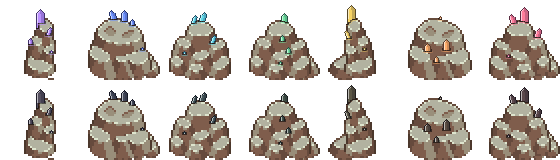
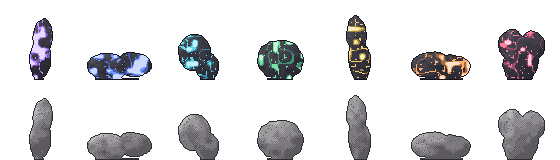
Stones: yooperlite-style lake stones, with a pack-boulder comparison
Seven smooth, weathered lake stones of different shapes: plain grey when
out, dark with glowing patches, veins and flecks of their colour when
lit. A comparison sheet maps the same glow onto the pack's boulders for
the author to choose between.

Claude-Session: https://claude.ai/code/session_01VJw4AQ3NNKTqwCh5BzdA5h

diff --git a/tools/story-art/make_opening_sprites.py b/tools/story-art/make_opening_sprites.py
@@ -4,6 +4,7 @@ Writes new files to public/assets/story/ and never changes the pack's originals.
 Run from the repository root: python tools/story-art/make_opening_sprites.py
 """
 
+import random
 from pathlib import Path
 
 from PIL import Image
@@ -180,196 +181,128 @@ def birch_tree() -> Image.Image:
     return tree
 
 
-# The seven stones: the pack's large boulders, each one different, with crystals of its colour.
+# The seven stones are smooth, water-worn lake stones, like yooperlites under a black light: plain
+# grey rock by day, but when lit the rock goes dark and patches, veins and flecks inside it glow in
+# the stone's colour. Each stone has its own shape and its own pattern of glow.
 STONE_HEX = ['#bd91ff', '#7296ff', '#61d9e8', '#72e6a2', '#f6d365', '#ffad69', '#ff7c9b']
 STONE_CELL = 80  # each stone sits bottom-centred in an 80 x 80 cell
-SPIRE = (128, 192, 160, 256)
-BOULDERS = [(0, 256, 64, 320), (64, 256, 128, 320), (128, 256, 192, 320), (192, 256, 256, 320)]
-SMALL_ROCKS = [(0, 192, 32, 224), (64, 192, 96, 224), (0, 224, 32, 256)]
-def crystal_shape(width: int, height: int, lean: int = 0) -> list[str]:
-    """A faceted crystal as rows of o outline, l lit face, m shaded face and h highlight.
-
-    It has a pointed tip, a lit left face and a shaded right face; `lean` shifts it one pixel sideways
-    every `abs(lean)` rows going up (negative leans left)."""
-    half = width // 2
-    tip = half + 1
-    rows = []
-    for y in range(height):
-        if y < tip:  # the point widens towards the shoulders
-            span = 1 + 2 * y
-            pad = half - y
-            if span <= 1:
-                row = ' ' * pad + 'o'
-            else:
-                inner = ''.join('h' if i == 1 and y > 1 else ('l' if i < span // 2 else 'm') for i in range(1, span - 1))
-                row = ' ' * pad + 'o' + inner + 'o'
-        elif y == height - 1:
-            row = ' ' + 'o' * (width - 2)
-        else:
-            inner = ''.join(
-                'h' if i == 1 and y < height * 2 // 3 else ('l' if i <= half else 'm') for i in range(1, width - 1)
-            )
-            row = 'o' + inner + 'o'
-        rows.append(row)
-    if lean:
-        shifted = []
-        for y, row in enumerate(rows):
-            offset = (height - 1 - y) // abs(lean)
-            shifted.append((' ' * offset + row) if lean > 0 else row)
-        if lean < 0:
-            shifted = [' ' * ((y) // abs(lean)) + row for y, row in enumerate(rows)]
-        rows = shifted
-    return [row.replace(' ', '.') for row in rows]
-
-
-SHAPES = {
-    'great': crystal_shape(9, 22),
-    'tall': crystal_shape(7, 17),
-    'big': crystal_shape(7, 12),
-    'small': crystal_shape(5, 9),
-    'tiny': crystal_shape(3, 5),
-    'leanL': crystal_shape(5, 12, -3),
-    'leanR': crystal_shape(5, 12, 3),
-    'bigLeanL': crystal_shape(7, 15, -3),
-    'bigLeanR': crystal_shape(7, 15, 3),
-}
-# Each stone: its rock (and an optional smaller rock at its foot), mirrored or not, and its crystals.
-# A crystal is placed by shape, position across the rock (0 left to 1 right) and either 'top' (on the
-# rock's upper edge at that point) or a depth into the rock's face (0 top to 1 bottom).
-STONES = [
-    # violet (Arcane): the tall spire, one great crystal at its peak and more climbing its side
-    (SPIRE, False, None, [('great', 0.5, 'top'), ('small', 0.15, 0.4), ('tiny', 0.85, 0.55), ('leanR', 0.8, 0.25)]),
-    # blue (Water): a broad boulder, a cluster on top like water caught mid-splash
-    (
-        BOULDERS[0],
-        False,
-        SMALL_ROCKS[0],
-        [('bigLeanL', 0.36, 'top'), ('tall', 0.5, 'top'), ('small', 0.62, 'top'), ('tiny', 0.75, 0.5)],
-    ),
-    # cyan (Wind): a heaped boulder, every crystal leaning the same way, as if blown
-    (BOULDERS[2], True, None, [('bigLeanR', 0.55, 'top'), ('leanR', 0.38, 'top'), ('leanR', 0.72, 0.35), ('tiny', 0.25, 0.55)]),
-    # green (Nature): crystals growing out of a crack down the boulder's face
-    (BOULDERS[3], False, SMALL_ROCKS[2], [('big', 0.5, 'top'), ('small', 0.47, 0.32), ('small', 0.55, 0.52), ('tiny', 0.45, 0.72)]),
-    # gold (Lightning): the spire mirrored, a single tall shard split from its peak
-    (SPIRE, True, SMALL_ROCKS[1], [('great', 0.45, 'top'), ('leanL', 0.2, 0.3), ('tiny', 0.75, 0.5)]),
-    # orange (Earth): the broad boulder mirrored, crystals low, heavy and half buried
-    (BOULDERS[1], True, None, [('big', 0.3, 0.5), ('tall', 0.6, 0.48), ('small', 0.45, 0.68), ('tiny', 0.5, 'top')]),
-    # red (Fire): a heaped boulder with a crown of crystals like a flame
-    (
-        BOULDERS[2],
-        False,
-        SMALL_ROCKS[0],
-        [('bigLeanL', 0.32, 'top'), ('great', 0.5, 'top'), ('bigLeanR', 0.68, 'top'), ('tiny', 0.28, 0.6)],
-    ),
+# Plain lake-stone greys, darkest (outline) to lightest (sunlit top), and the rock under a lit glow.
+STONE_GREYS = [rgb(46, 44, 48), rgb(92, 90, 94), rgb(124, 122, 126), rgb(156, 154, 156), rgb(188, 186, 186)]
+LIT_GREYS = [rgb(22, 20, 28), rgb(44, 42, 52), rgb(58, 56, 66), rgb(72, 70, 80), rgb(88, 86, 96)]
+# Shapes: width, height, lumps (extra rounded masses as fractions: across, up, size), lean, seed.
+STONE_SHAPES = [
+    (30, 58, [(0.5, 0.75, 0.55), (0.45, 0.4, 0.6)], 3, 11),  # violet: a tall egg, leaning
+    (62, 40, [(0.3, 0.35, 0.55), (0.7, 0.4, 0.5)], 0, 23),  # blue: broad and low, two lobes
+    (46, 50, [(0.4, 0.55, 0.6), (0.65, 0.3, 0.45)], -2, 37),  # cyan: lumpy, leaning left
+    (54, 46, [(0.5, 0.45, 0.7)], 0, 41),  # green: a round, heavy stone
+    (34, 62, [(0.5, 0.3, 0.55), (0.45, 0.72, 0.5)], -3, 53),  # gold: tall, narrow and crooked
+    (58, 36, [(0.35, 0.4, 0.6), (0.68, 0.35, 0.55)], 0, 67),  # orange: flat and wide
+    (48, 54, [(0.5, 0.3, 0.6), (0.3, 0.65, 0.45), (0.72, 0.62, 0.45)], 1, 79),  # red: a heaped cairn
 ]
 
 
-def _crystal_ramp(hex_colour: str, lit: bool) -> dict[str, Color]:
+def _glow_ramp(hex_colour: str) -> dict[str, Color]:
+    """Fluorescent glow: a deep edge, the stone's colour, and a near-white hot core."""
     r, g, b = (int(hex_colour[i : i + 2], 16) for i in (1, 3, 5))
-    if not lit:  # a dark stone: the crystals dull to a dim grey tint of their colour
-        grey = (r + g + b) // 3
-        r, g, b = ((v + grey * 2) // 3 * 45 // 100 for v in (r, g, b))
 
-    def mix(v: int, k: float) -> int:
+    def toward_white(v: int, k: float) -> int:
         return min(255, int(v + (255 - v) * k))
 
     return {
-        'o': rgb(r * 35 // 100, g * 35 // 100, b * 42 // 100),
-        'm': rgb(r * 80 // 100, g * 80 // 100, b * 85 // 100),
+        'm': rgb(r * 62 // 100, g * 62 // 100, b * 70 // 100),
         'l': rgb(r, g, b),
-        'h': rgb(mix(r, 0.6), mix(g, 0.6), mix(b, 0.6)),
+        'h': rgb(toward_white(r, 0.65), toward_white(g, 0.65), toward_white(b, 0.65)),
     }
 
 
-def _stone_rock(tiles: Image.Image, rock, mirrored: bool, foot) -> Image.Image:
-    """The stone's rock, bottom-centred in its cell, with a smaller rock at its foot if given."""
-    cell = Image.new('RGBA', (STONE_CELL, STONE_CELL), (0, 0, 0, 0))
-    body = tiles.crop(rock)
-    body = body.crop(body.getbbox())
-    if mirrored:
-        body = body.transpose(Image.Transpose.FLIP_LEFT_RIGHT)
-    left = (STONE_CELL - body.width) // 2
-    if foot:
-        small = tiles.crop(foot)
-        small = small.crop(small.getbbox())
-        side = left + body.width - small.width // 2 if not mirrored else left - small.width // 2
-        cell.alpha_composite(small, (max(0, min(STONE_CELL - small.width, side)), STONE_CELL - small.height))
-    cell.alpha_composite(body, (left, STONE_CELL - body.height))
-    return cell
+def _value_noise(seed: int, scale: float):
+    """Smooth 2D noise in 0..1, stable for a given seed."""
+    rand = random.Random(seed)
+    grid = {(i, j): rand.random() for i in range(-2, 40) for j in range(-2, 40)}
+
+    def at(x: float, y: float) -> float:
+        gx, gy = x / scale, y / scale
+        i, j = int(gx), int(gy)
+        fx, fy = gx - i, gy - j
+        fx, fy = fx * fx * (3 - 2 * fx), fy * fy * (3 - 2 * fy)
+        top = grid[(i, j)] * (1 - fx) + grid[(i + 1, j)] * fx
+        low = grid[(i, j + 1)] * (1 - fx) + grid[(i + 1, j + 1)] * fx
+        return top * (1 - fy) + low * fy
+
+    return at
 
 
-def _solid(px, x: int, y: int) -> bool:
-    return 0 <= x < STONE_CELL and 0 <= y < STONE_CELL and px[x, y][3] > 200
+def _stone_mask(width: int, height: int, lumps, lean: int, seed: int) -> set[tuple[int, int]]:
+    """The stone's silhouette: overlapping rounded masses with weathered, uneven edges, resting on a
+    flattened base at the bottom of the cell."""
+    left = (STONE_CELL - width) // 2
+    base = STONE_CELL - 1
+    rough = _value_noise(seed + 9, 5.0)
+    pixels = set()
+    for across, up, size in lumps:
+        cx = left + across * width
+        cy = base - up * height
+        rx, ry = size * width * 0.62, size * height * 0.62
+        for y in range(STONE_CELL):
+            for x in range(STONE_CELL):
+                shift = lean * (base - y) / max(1, height)  # the stone leans as it rises
+                edge = 1 + 0.22 * (rough(x, y) - 0.5)
+                if ((x - cx - shift) / rx) ** 2 + ((y - cy) / ry) ** 2 <= edge:
+                    pixels.add((x, y))
+    # Settle the stone: drop it onto the ground and flatten the bottom two rows it rests on.
+    drop = base - max(y for _, y in pixels)
+    settled = {(x, y + drop) for x, y in pixels}
+    floor = base - 1
+    row = [x for x, y in settled if y == floor - 2]
+    if row:
+        for x in range(min(row) + 1, max(row)):
+            settled.update({(x, floor), (x, base)})
+    return {(x, y) for x, y in settled if y <= base}
 
 
-def _darken(colour: Color, k: float) -> Color:
-    return (int(colour[0] * k), int(colour[1] * k), int(colour[2] * k), colour[3])
-
-
-def _tint(colour: Color, toward: Color, k: float) -> Color:
-    return tuple(int(c + (t - c) * k) for c, t in zip(colour[:3], toward[:3])) + (colour[3],)
-
-
-def _place_crystals(stone: Image.Image, crystals, ramp: dict[str, Color], lit: bool) -> None:
-    """Grows each crystal out of the rock.
-
-    The crystal's lower part is buried: the rock is drawn back over it, a dark crack rims the place
-    where it breaks through, and a lit crystal tints the rock around it with its glow."""
-    rock = stone.copy()
-    solid = rock.load()
-    px = stone.load()
-    left, top, right, bottom = stone.getbbox() or (0, 0, STONE_CELL, STONE_CELL)
-    middle = (left + right) // 2
-    for shape_name, across, where in crystals:
-        shape = SHAPES[shape_name]
-        width, height = max(len(line) for line in shape), len(shape)
-        buried = height * 2 // 5  # this many rows of the crystal stay inside the rock
-        foot = height - buried  # the first buried row: it must lie on solid rock
-        cx = int(left + across * (right - left))
-        for _ in range(STONE_CELL):
-            if where == 'top':
-                column = [y for y in range(STONE_CELL) if _solid(solid, cx, y)]
-                y = (column[0] if column else top) - foot + 1
-            else:
-                y = int(top + where * (bottom - top)) - height // 2
-            base = [cx - width // 2 + dx for dx, ch in enumerate(shape[foot]) if ch != '.']
-            if all(_solid(solid, x, y + foot) for x in base):
-                break
-            cx += 1 if cx < middle else -1  # step in towards the rock until the foot is set
-        x = cx - width // 2
-        drawn = set()
-        for dy, line in enumerate(shape):
-            for dx, ch in enumerate(line):
-                tx, ty = x + dx, y + dy
-                if ch not in ramp or not (0 <= tx < STONE_CELL and 0 <= ty < STONE_CELL):
-                    continue
-                if dy >= foot and _solid(solid, tx, ty):
-                    continue  # buried: the rock stays in front
-                px[tx, ty] = ramp[ch]
-                drawn.add((tx, ty))
-        # The crack: rock pixels touching the crystal along its buried edge are darkened, and a lit
-        # crystal's glow spills a little onto the rock just below where it breaks through.
-        for tx, ty in list(drawn):
-            for ddx in (-2, -1, 0, 1, 2):
-                for ddy in (-1, 0, 1, 2):
-                    nx, ny = tx + ddx, ty + ddy
-                    if (nx, ny) in drawn or not _solid(solid, nx, ny):
-                        continue
-                    near = abs(ddx) <= 1 and ddy in (0, 1)
-                    if near and ty - y >= foot - 2:
-                        px[nx, ny] = _darken(solid[nx, ny], 0.45)
-                    elif lit and ddy >= 1 and ty - y >= foot - 1:
-                        px[nx, ny] = _tint(px[nx, ny], ramp['l'], 0.18)
+def _shade(mask: set[tuple[int, int]], x: int, y: int, greys, weather) -> Color:
+    """Pack-style stepped shading: outline at the edge, light from the upper left, dithered steps,
+    with weathering: broad patches a shade lighter or darker and small dark pits."""
+    if any((x + dx, y + dy) not in mask for dx, dy in ((1, 0), (-1, 0), (0, 1), (0, -1))):
+        return greys[0]
+    xs = [px for px, py in mask if py == y]
+    ys = [py for px, py in mask if px == x]
+    across = (x - min(xs)) / max(1, max(xs) - min(xs))
+    down = (y - min(ys)) / max(1, max(ys) - min(ys))
+    light = 4.1 - across * 1.6 - down * 2.2 + (weather(x, y) - 0.5) * 1.4
+    if _noise(x, y) < 4:
+        return greys[1]  # a pit
+    step = int(light)
+    if light - step > 0.6 and (x + y) % 2 == 0:
+        step += 1
+    return greys[max(1, min(4, step))]
 
 
 def standing_stones() -> Image.Image:
-    """A sheet of the seven stones in STONE_ORDER: lit on the top row, dark beneath."""
-    tiles = Image.open(TILES / 'grasslands.png').convert('RGBA')
-    sheet = Image.new('RGBA', (STONE_CELL * len(STONES), STONE_CELL * 2), (0, 0, 0, 0))
-    for col, ((rock, mirrored, foot, crystals), hex_colour) in enumerate(zip(STONES, STONE_HEX)):
+    """A sheet of the seven stones in STONE_ORDER: lit (glowing) on the top row, plain beneath."""
+    sheet = Image.new('RGBA', (STONE_CELL * len(STONE_SHAPES), STONE_CELL * 2), (0, 0, 0, 0))
+    for col, ((width, height, lumps, lean, seed), hex_colour) in enumerate(zip(STONE_SHAPES, STONE_HEX)):
+        mask = _stone_mask(width, height, lumps, lean, seed)
+        weather = _value_noise(seed + 5, 6.0)
+        patches = _value_noise(seed, 7.0)
+        flecks = _value_noise(seed + 1, 2.2)
+        veins = _value_noise(seed + 2, 11.0)
+        glow = _glow_ramp(hex_colour)
         for row, lit in enumerate((True, False)):
-            stone = _stone_rock(tiles, rock, mirrored, foot)
-            _place_crystals(stone, crystals, _crystal_ramp(hex_colour, lit), lit)
+            stone = Image.new('RGBA', (STONE_CELL, STONE_CELL), (0, 0, 0, 0))
+            px = stone.load()
+            for x, y in mask:
+                px[x, y] = _shade(mask, x, y, LIT_GREYS if lit else STONE_GREYS, weather)
+                if not lit or px[x, y] == LIT_GREYS[0]:
+                    continue
+                patch = patches(x, y)
+                vein = abs(veins(x, y) - 0.5) < 0.035  # thin bands where the vein noise crosses its middle
+                if patch > 0.74 or (vein and patch > 0.45):
+                    px[x, y] = glow['h'] if patch > 0.8 else glow['l']
+                elif patch > 0.66 or vein:
+                    px[x, y] = glow['m']
+                elif flecks(x, y) > 0.86:
+                    px[x, y] = glow['l']
             sheet.alpha_composite(stone, (col * STONE_CELL, row * STONE_CELL))
     return sheet
 
